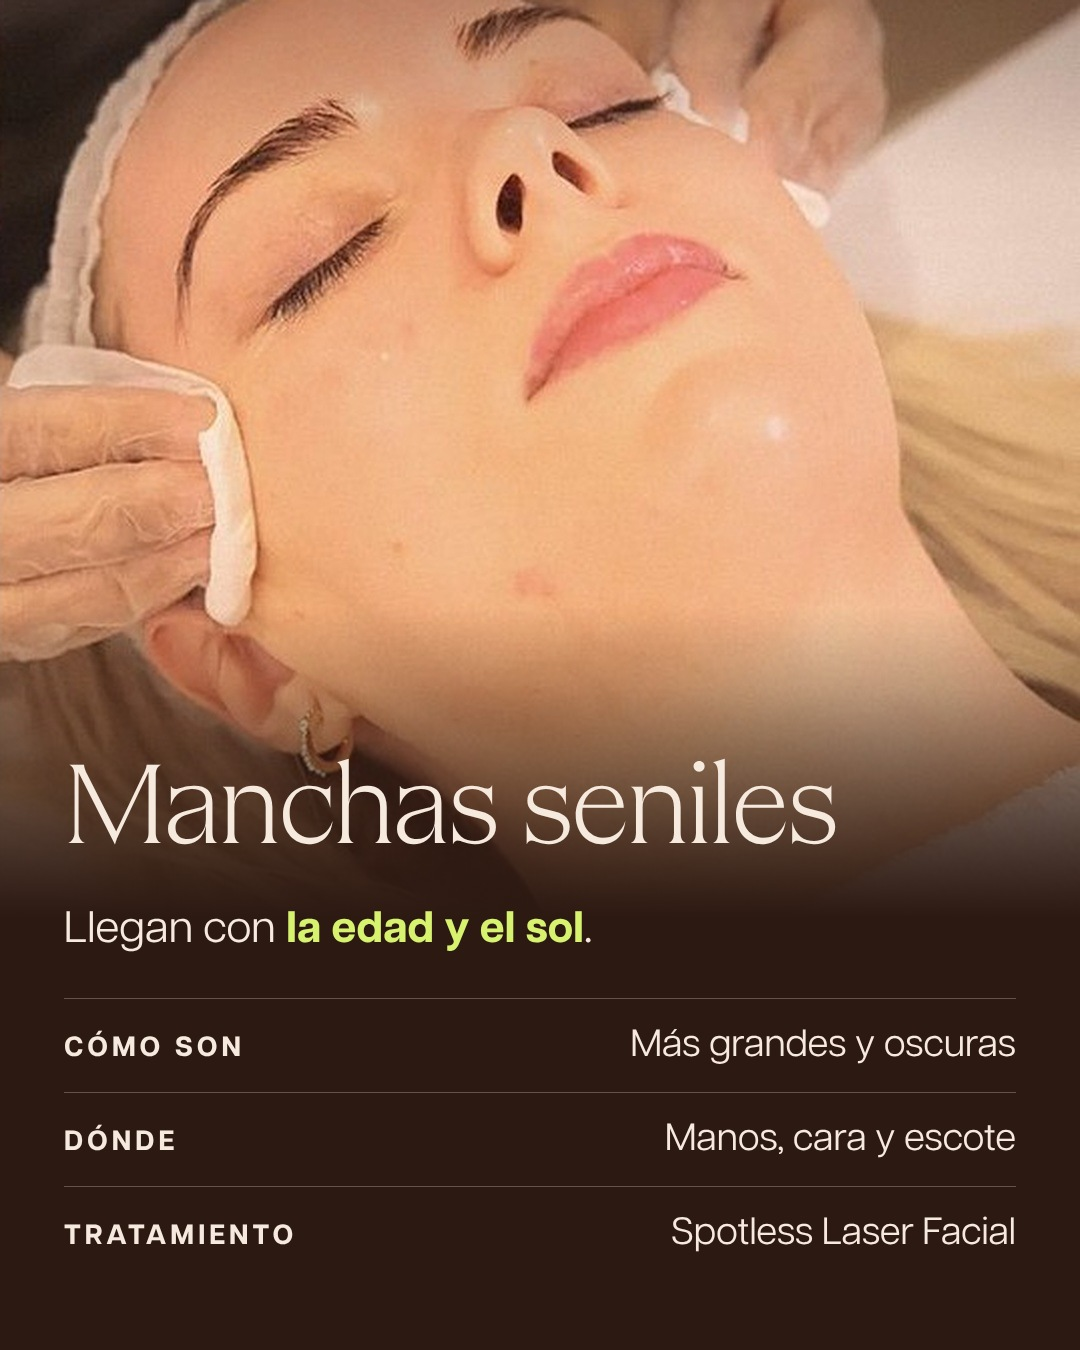
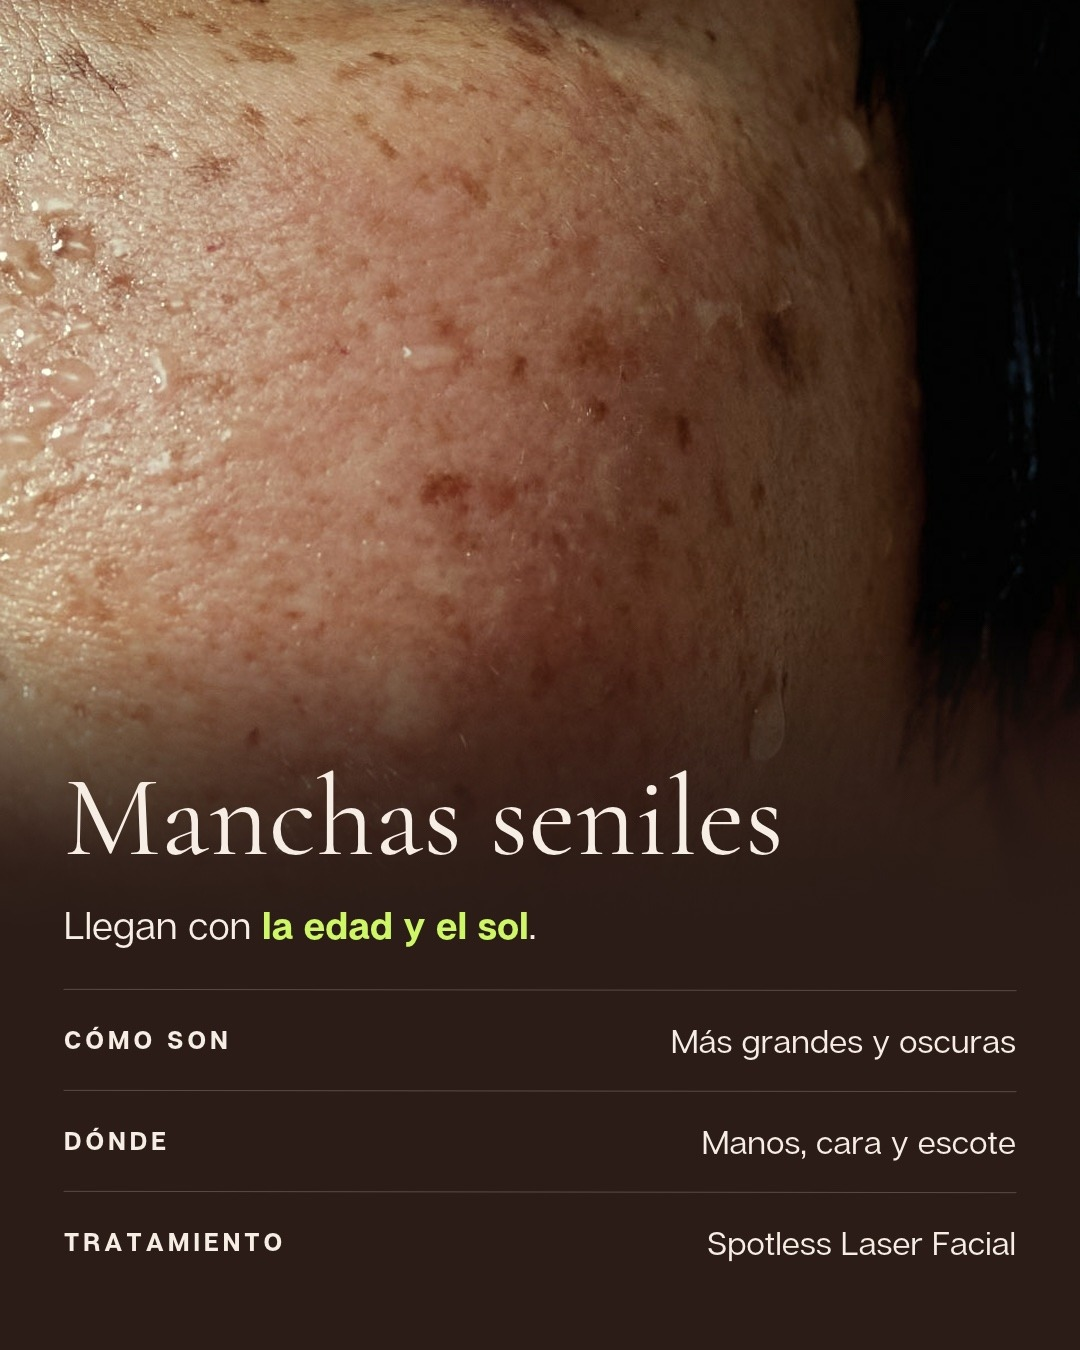
Skin Laundry: nueva imagen en la slide 3 del carrusel del 27
Claude-Session: https://claude.ai/code/session_01JZ4qrB4vBJCM1LriYw1bZU

diff --git a/public/pitch/skin-laundry-calendario/noviembre/index.html b/public/pitch/skin-laundry-calendario/noviembre/index.html
@@ -812,7 +812,7 @@ Te esperamos hoy [de X a X h] en Diagonal 610. Ven sola o acompañada.
 📍 Av. Diagonal 610, Barcelona
 #Ultraformer #OpenDay #LiftingSinCirugia #HIFU #SkinLaundryBarcelona` },
 
-{ d:27, formato:"Carrusel", estado:"listo", media:"/pitch/skin-laundry-calendario/noviembre/img/d27_1_v2.jpg?v=11191325", slides:["/pitch/skin-laundry-calendario/noviembre/img/d27_1_v2.jpg?v=11191325","/pitch/skin-laundry-calendario/noviembre/img/d27_2_v2.jpg?v=11191325","/pitch/skin-laundry-calendario/noviembre/img/d27_3_v2.jpg?v=11191325","/pitch/skin-laundry-calendario/noviembre/img/d27_4_v2.jpg?v=11191325","/pitch/skin-laundry-calendario/noviembre/img/d27_5_v2.jpg?v=11191325","/pitch/skin-laundry-calendario/noviembre/img/d27_6_v2.jpg?v=11191325"], cubo:"Láser", tema:"Manchas", hora:"13:30h",
+{ d:27, formato:"Carrusel", estado:"listo", media:"/pitch/skin-laundry-calendario/noviembre/img/d27_1_v2.jpg?v=11191325", slides:["/pitch/skin-laundry-calendario/noviembre/img/d27_1_v2.jpg?v=11191325","/pitch/skin-laundry-calendario/noviembre/img/d27_2_v2.jpg?v=11191325","/pitch/skin-laundry-calendario/noviembre/img/d27_3_v2.jpg?v=11201207","/pitch/skin-laundry-calendario/noviembre/img/d27_4_v2.jpg?v=11191325","/pitch/skin-laundry-calendario/noviembre/img/d27_5_v2.jpg?v=11191325","/pitch/skin-laundry-calendario/noviembre/img/d27_6_v2.jpg?v=11191325"], cubo:"Láser", tema:"Manchas", hora:"13:30h",
   pieza:"Tipos de manchas y qué hay", base:"Doc §3 (ampliar)", cta:"Reserva tu valoración",
   nota:"Carrusel rehecho: portada + una slide por tipo de mancha + cierre · pendiente: precio del plan para melasma (en la slide de cierre va sin precio) y revisión médica de los textos de las slides 2-5",
   idea:["Portada: «No todas las manchas son iguales»","Solares y seniles: cómo son, dónde, qué hay","Melasma y marcas de acné: las que más confunden","Spotless, Brightening o plan combinado + Reserva tu valoración"],
